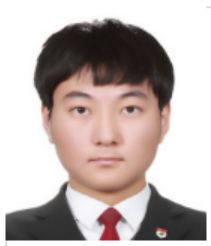
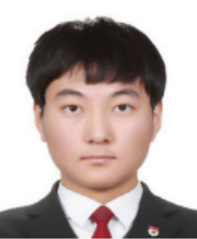
Introduction의 팀원 Github 링크를 링크스럽게 수정

diff --git a/server/templates/introduction/introduction.html b/server/templates/introduction/introduction.html
@@ -157,7 +157,7 @@
                     <div class="member">
                         <div>신다연</div>
                         <div style="padding-top: 15px;">tlsekdus77@naver.com</div>
-                        <div class="git" style="padding-top: 15px;" role="button" onclick="window.open('https://github.com/Dayeonee2')">https://github.com/Dayeonee2</div>
+                        <div class="git" style="padding-top: 15px; cursor:pointer; color:darkgray" role="button" onclick="window.open('https://github.com/Dayeonee2')">https://github.com/Dayeonee2</div>
                     </div>
                 </div>
             </div>
@@ -169,7 +169,7 @@
                     <div class="member">
                         <div>성민규</div>
                         <div style="padding-top: 15px;"></div>
-                        <div class="git" style="padding-top: 15px;" role="button" onclick="window.open('https://github.com/Min9o')">https://github.com/Min9o</div>
+                        <div class="git" style="padding-top: 15px; cursor:pointer; color:darkgray" role="button" onclick="window.open('https://github.com/Min9o')">https://github.com/Min9o</div>
                     </div>
                 </div>
             </div>
@@ -181,7 +181,7 @@
                     <div class="member">
                         <div>성철규</div>
                         <div style="padding-top: 15px;"></div>
-                        <div class="git" style="padding-top: 15px;" role="button" onclick="window.open('https://github.com/CG05')">https://github.com/CG05</div>
+                        <div class="git" style="padding-top: 15px;  cursor:pointer; color:darkgray" role="button" onclick="window.open('https://github.com/CG05')">https://github.com/CG05</div>
                     </div>
                 </div>
             </div>
@@ -193,7 +193,7 @@
                     <div class="member">
                         <div>현창민</div>
                         <div style="padding-top: 15px;">hcm1206@naver.com</div>
-                        <div class="git" style="padding-top: 15px;" role="button" onclick="window.open('https://github.com/hcm1206')">https://github.com/hcm1206</div>
+                        <div class="git" style="padding-top: 15px; cursor:pointer; color:darkgray" role="button" onclick="window.open('https://github.com/hcm1206')">https://github.com/hcm1206</div>
                     </div>
                 </div>
             </div>
